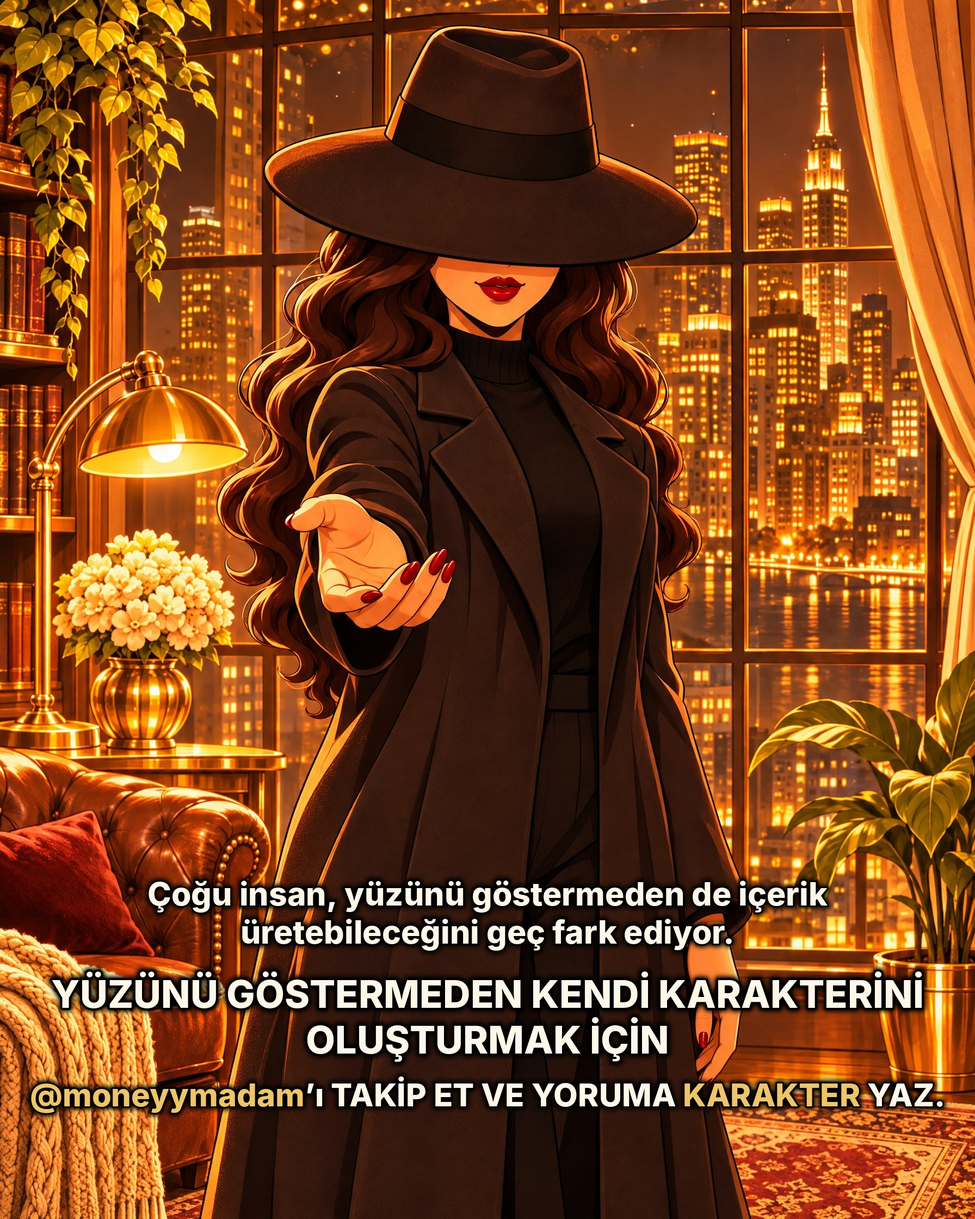
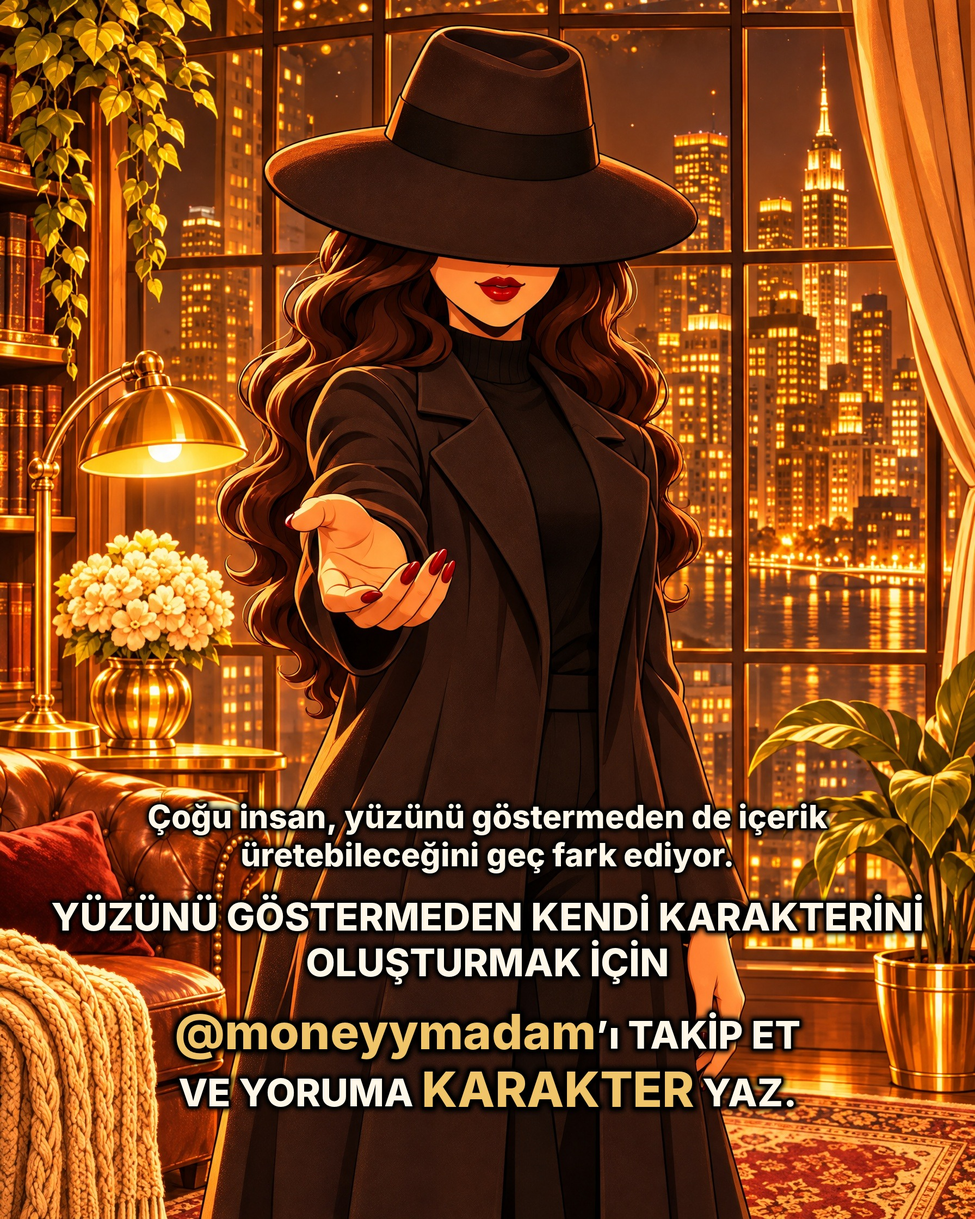
Post6 son slayt: çağrı iki satıra bölündü, sarı yazılar büyütüldü, blok yukarı alındı
Claude-Session: https://claude.ai/code/session_01DJnELUg2datGduMzoawH2g

Changed region(s): [[0.0312, 0.6562, 0.9688, 0.9375]]

diff --git a/dark-money/tools/post6_yazi.py b/dark-money/tools/post6_yazi.py
@@ -64,7 +64,7 @@ def draw_rich(im,lines,cy,gap=1.2):
     hs=[max(s for _,_,s in ln) for ln in lines]; total=sum(int(h*gap) for h in hs); y=cy-total/2; items=[]
     for ln,h in zip(lines,hs):
         ws=[m.textlength(t,font=ImageFont.truetype(FONT,s)) for t,_,s in ln]; x=(W-sum(ws))/2
-        for (t,c,s),w in zip(ln,ws): items.append((x,y+(h-s)*0.6,t,c,ImageFont.truetype(FONT,s))); x+=w
+        for (t,c,s),w in zip(ln,ws): items.append((x,y+(h-s)*0.95,t,c,ImageFont.truetype(FONT,s))); x+=w
         y+=int(h*gap)
     sh=Image.new("RGBA",im.size,(0,0,0,0)); sd=ImageDraw.Draw(sh)
     for x,yy,t,c,f in items: sd.text((x,yy),t,font=f,fill=(0,0,0,255),stroke_width=max(5,f.size//9),stroke_fill=(0,0,0,255))
@@ -93,13 +93,10 @@ P2_pre=up("Yüzünü göstermeden kendi karakterini oluşturmak için").split()
 w1=[[(w,CREAM,S)] for w in P1]
 L1=rich_wrap(w1,W*0.88,m)
 L2=rich_wrap([[(w,CREAM,S2)] for w in P2_pre],W*0.90,m)
-# son satır: tek satırda  @moneyymadam’ı TAKİP ET VE YORUMA KARAKTER(altın) YAZ.
-S3=int(S*1.15)
-while True:
-    last=[("@moneyymadam",GOLD,S3),("’ı",CREAM,S3),(" "+up("takip et ve yoruma")+" ",CREAM,S3),("KARAKTER",GOLD,S3),(" YAZ.",CREAM,S3)]
-    if sum(m.textlength(t,font=ImageFont.truetype(FONT,sz)) for t,_,sz in last)<=W*0.95: break
-    S3-=1
-print("son satır puntosu:",S3,"/",S)
-lines=L1+[[("",CREAM,int(S*0.55))]]+L2+[[("",CREAM,int(S*0.35))]]+[last]
-im=draw_rich(im,lines,H*0.815)
+# çağrı: iki satır; sarı yazılar (hesap adı ve KARAKTER) daha büyük
+SG=int(S2*1.28)
+cta1=[("@moneyymadam",GOLD,SG),("’ı "+up("takip et"),CREAM,S2)]
+cta2=[(up("ve yoruma")+" ",CREAM,S2),("KARAKTER",GOLD,SG),(" YAZ.",CREAM,S2)]
+lines=L1+[[("",CREAM,int(S*0.55))]]+L2+[[("",CREAM,int(S*0.45))]]+[cta1,cta2]
+im=draw_rich(im,lines,H*0.785)
 im.save(f"{OUT}/sayfa6.jpg",quality=92); print("ok sayfa 6, satır:",len(lines))
